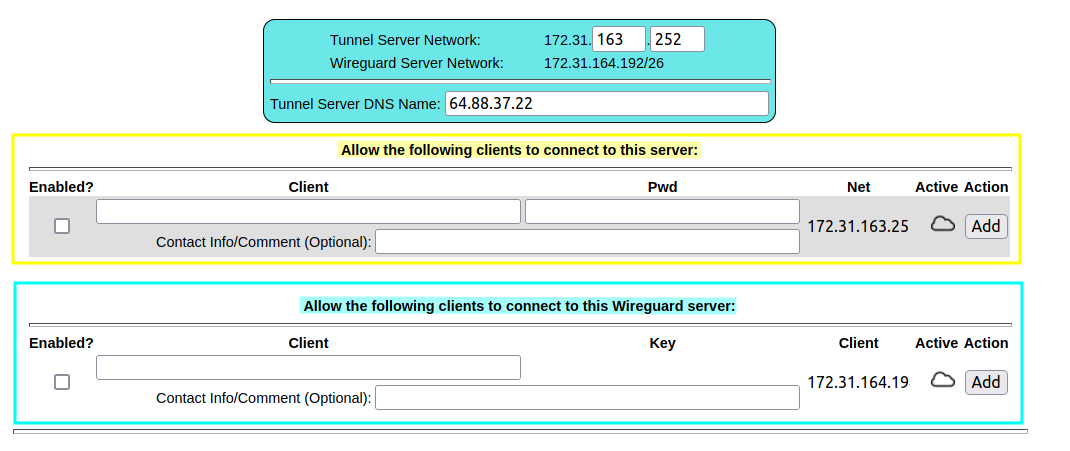
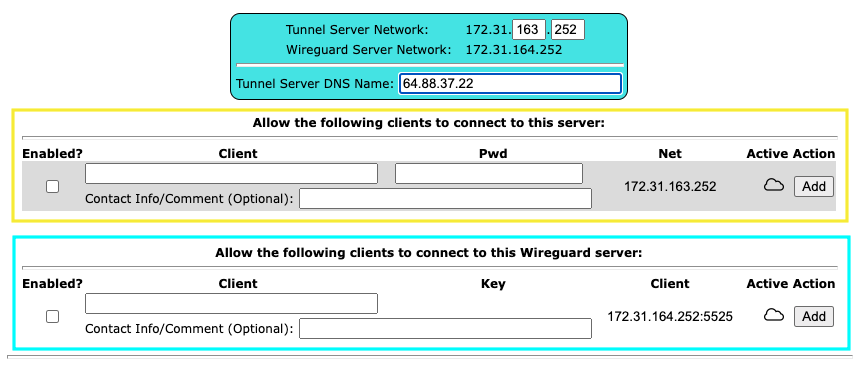
update tunnel server section (#332)

diff --git a/arednGettingStarted/advanced_config.rst b/arednGettingStarted/advanced_config.rst
@@ -277,9 +277,7 @@ Tunnels are typically used as a means of connecting mesh islands if RF links can
 
 Internet Connectivity Requirements
 ^^^^^^^^^^^^^^^^^^^^^^^^^^^^^^^^^^
-In order to run your node as either a *Tunnel Server* or *Tunnel Client*, you will need to configure additional settings and equipment.
-
-The following diagram shows an overview of tunnel services between two nodes.
+In order to run your node as either a *Tunnel Server* or *Tunnel Client*, you will need to configure Internet access. The following diagram shows an example of tunnel services between two nodes using the Legacy Tunneling Protocol described below.
 
 .. image:: _images/tunneling-diagram.png
    :alt: Tunneling Diagram
@@ -287,21 +285,12 @@ The following diagram shows an overview of tunnel services between two nodes.
 
 |
 
-Managed Switch Settings (both Client and Server networks)
-  Set your VLAN-capable network switch to appropriately tag traffic from the Internet with "VLAN 1" before sending it to your node. This allows your node to properly identify the traffic as coming from the Internet connection on its WAN interface. See the equipment manual for your managed switch to determine how to configure these settings.
-
-  .. note:: If you are using *Mikrotik hAP ac* family devices or *GL.iNET* devices then you **do not need** a separate VLAN-capable switch as described above. These nodes have built-in switches with the appropriate VLANs preconfigured in the AREDN |trade| firmware.
-
-WAN Interface IP (Tunnel Server *node* only)
-  Set a static IP address on your tunnel server node's WAN interface so your Internet-connected router/firewall has a consistent way to forward traffic to your node.
-
-Internet Firewall/Router Settings (Tunnel Server network only)
-  Set your network firewall or router to permit TCP & UDP traffic from the Internet on port 5525, which is the default AREDN |trade| tunnel service port. Then configure a port forwarding rule on your firewall or router to send any traffic from the Internet on port 5525 to the static IP address of your node's WAN interface on the *node's* port 5525. See the equipment manual for your Internet firewall or router to determine how to configure these settings. Also, some Internet Service Providers may not allow port forwarding by default, so you should check with your ISP if you have difficulty opening ports.
+If you are using *Mikrotik hAP ac* family devices or *GL.iNET* devices then these nodes have built-in switches with the appropriate VLANs preconfigured in the AREDN |trade| firmware. If you are using any other type of node, then you will need to configure a separate VLAN-capable switch. Set your VLAN-capable network switch to appropriately tag traffic from the Internet with "VLAN 1" before sending it to your node. This allows your node to properly identify the traffic as coming from the Internet connection on its WAN interface. See the equipment manual for your smart switch to determine how to configure these settings.
 
 Tunnel Server
 ^^^^^^^^^^^^^
 
-Click the **Tunnel Server** link to navigate to these settings. This section provides a way for you to configure node-to-node connections across the Internet. The heading area displays information for both types of tunneling protocols. The legacy tunneling service provides an unencrypted connection between the linked nodes, while the Wireguard tunneling service provides an encrypted connection over the Internet. Tunnel network address ranges are calculated automatically and it is not necessary to change these settings unless there is a specific reason why the defaults will not work for your situation. The *Tunnel Server DNS Name* is the public IP Address or the *Dynamic DNS* name by which Internet-connected nodes can reach your network.
+Click the **Tunnel Server** link to navigate to these settings. This section provides a way for you to configure node-to-node connections across the Internet. The heading area displays information for both types of tunneling protocols. The legacy tunneling service provides an *unencrypted* connection between the linked nodes, while the Wireguard tunneling service provides an *encrypted* connection over the Internet. Tunnel network address ranges are calculated automatically and it is not necessary to change these settings unless there is a specific reason why the defaults will not work for your situation. The *Tunnel Server DNS Name* is the public IP Address or the *Dynamic DNS* name by which Internet-connected nodes can reach your network.
 
 .. image:: _images/tunnel-server.png
    :alt: Tunneling Server
@@ -314,10 +303,21 @@ Legacy Tunneling Protocol
 
   Once these settings are correct, click *Add* to add the new client to the list of authorized tunnel clients. On the right of each entry there is an envelope icon which will automatically open your computer's email program and copy the client settings into a new email which allows you to quickly and easily send credentials to the owners of the client nodes.
 
-Wireguard Tunneling Protocol
-  The bottom section is for entering tunnel clients that will use the Wireguard tunneling protocol which uses UDP and is encrypted over the Internet. In the *Client* field enter the exact node name of the client node that will be allowed to connect to your tunnel server. Do not include the "local.mesh" suffix. You may also enter other optional information in the *Contact Info/Comment* field. To allow the client to connect to your tunnel server, select the *Enabled* checkbox.
+  In order for your Internet-connected router/firewall to have a consistent way to forward traffic to your node, it is best practice to set a static IP address on your tunnel server node's WAN interface or to reserve its DHCP IP address in your router.
 
-  Once these settings are correct, click *Add* to add the new client to the list of authorized tunnel clients. On the right of each entry there is an envelope icon which will automatically open your computer's email program and copy the client settings into a new email which allows you to quickly and easily send credentials to the owners of the client nodes.
+  On your Internet-connected router/firewall set the firewall rules to permit TCP traffic from the Internet on port ``5525``. Then configure a port forwarding rule to send any traffic from the Internet on port ``5525`` to the IP address of your node's WAN interface.
+
+Wireguard Tunneling Protocol
+  The bottom section of the *Tunnel Server* page is for entering tunnel clients that will use the Wireguard tunneling protocol which uses UDP and is encrypted over the Internet. In the *Client* field enter the exact node name of the client node that will be allowed to connect to your tunnel server. Do not include the "local.mesh" suffix. You may also enter other optional information in the *Contact Info/Comment* field. To allow the client to connect to your tunnel server, select the *Enabled* checkbox.
+
+  Once these settings are correct, click *Add* to add the new client to the list of authorized tunnel clients. The entry for the *Key* field will be auto-generated when the *Add* button is pressed. You will also see the port which was assigned to the entry in the *Client* field at the end of the IP address. On the right of each entry there is an envelope icon which will automatically open your computer's email program and copy the client settings into a new email which allows you to quickly and easily send credentials to the owners of the client nodes.
+
+  In order for your Internet-connected router/firewall to have a consistent way to forward traffic to your node, it is best practice to set a static IP address on your tunnel server node's WAN interface or to reserve its DHCP IP address in your router.
+
+  On your Internet-connected router/firewall set the firewall rules to permit UDP traffic from the Internet on an appropriate range of ports. The starting port should be ``5525``, which will provide for one wireguard tunnel connection. If you want to allow up to 10 wireguard tunnel links (for example), you would permit UDP traffic on the range of ports between ``5525-5534``. Then configure a port forwarding rule to send any traffic from the Internet on your range of ports to the IP address of your node's WAN interface.
+
+Supernode Tunneling
+  Supernode tunneling uses the Wireguard tunneling protocol, but the port range begins with port ``6526``. On your Internet-connected router/firewall set the firewall rules to permit UDP traffic from the Internet on an appropriate range of ports. The starting port should be ``6526``, which will provide for one supernode tunnel connection. If you want to allow up to 10 supernode tunnel links (for example), then you would permit UDP traffic on the range of ports between ``6526-6535``. Then configure a port forwarding rule to send any traffic from the Internet on your range of ports to the IP address of your node's WAN interface.
 
 Once the client information has been entered, click the **Save Changes** button. When a tunnel connection becomes active, the cloud icon at the right of each row will change to indicate that the tunnel is active. Depending on the timing of the webpage refresh, you may need to press the **Refresh** button to see the active icon.
 
